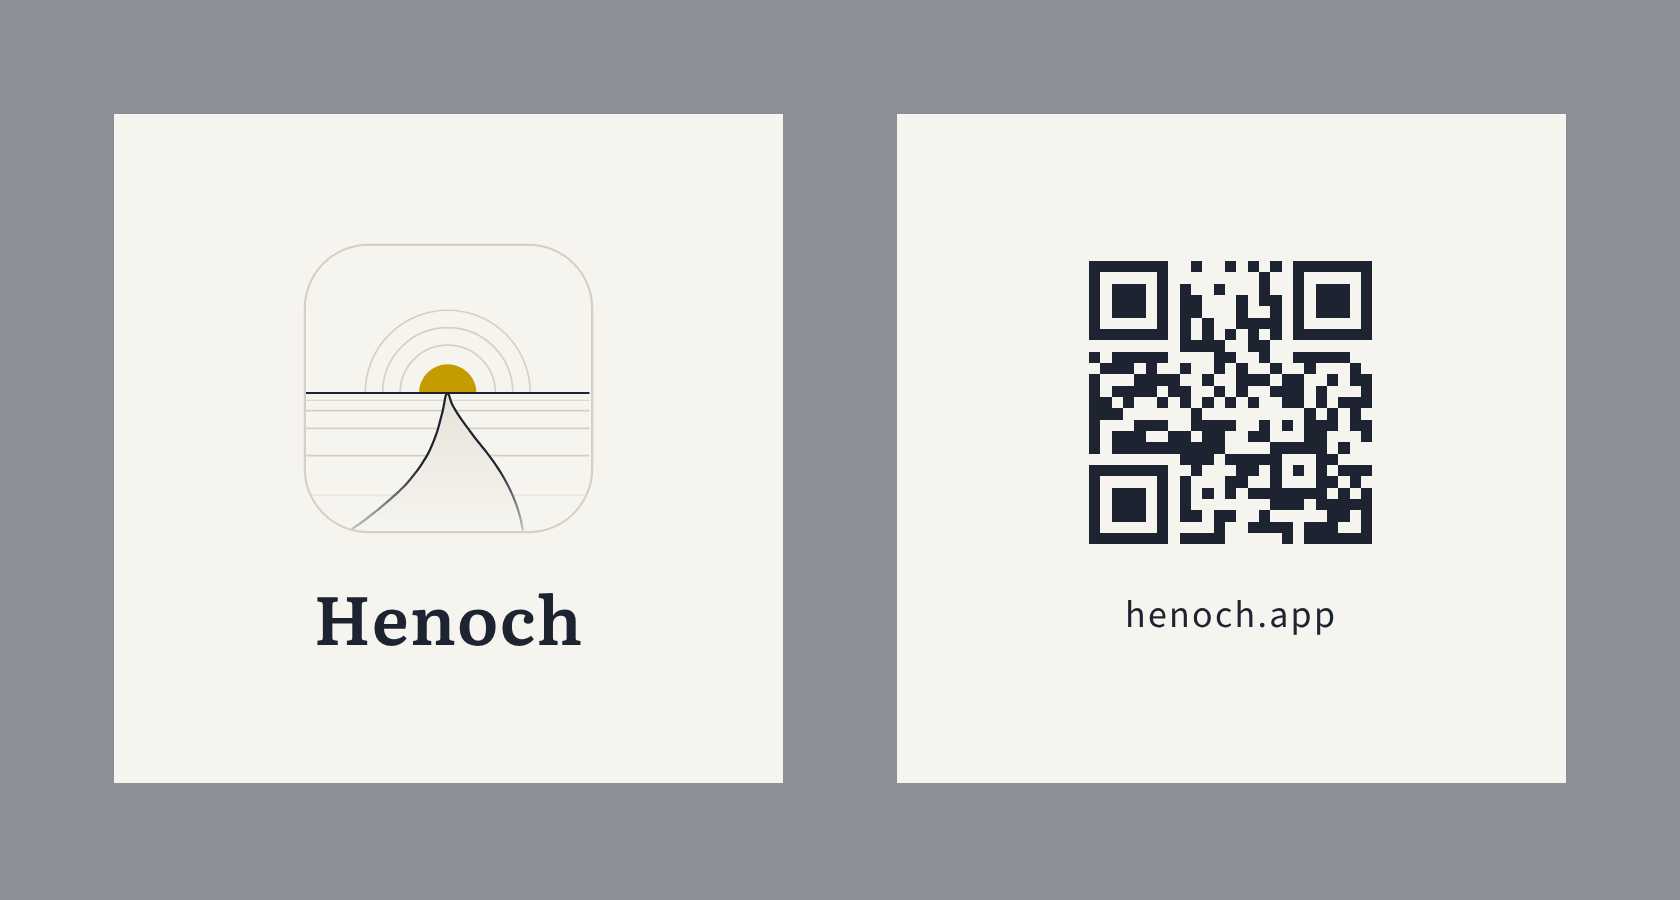
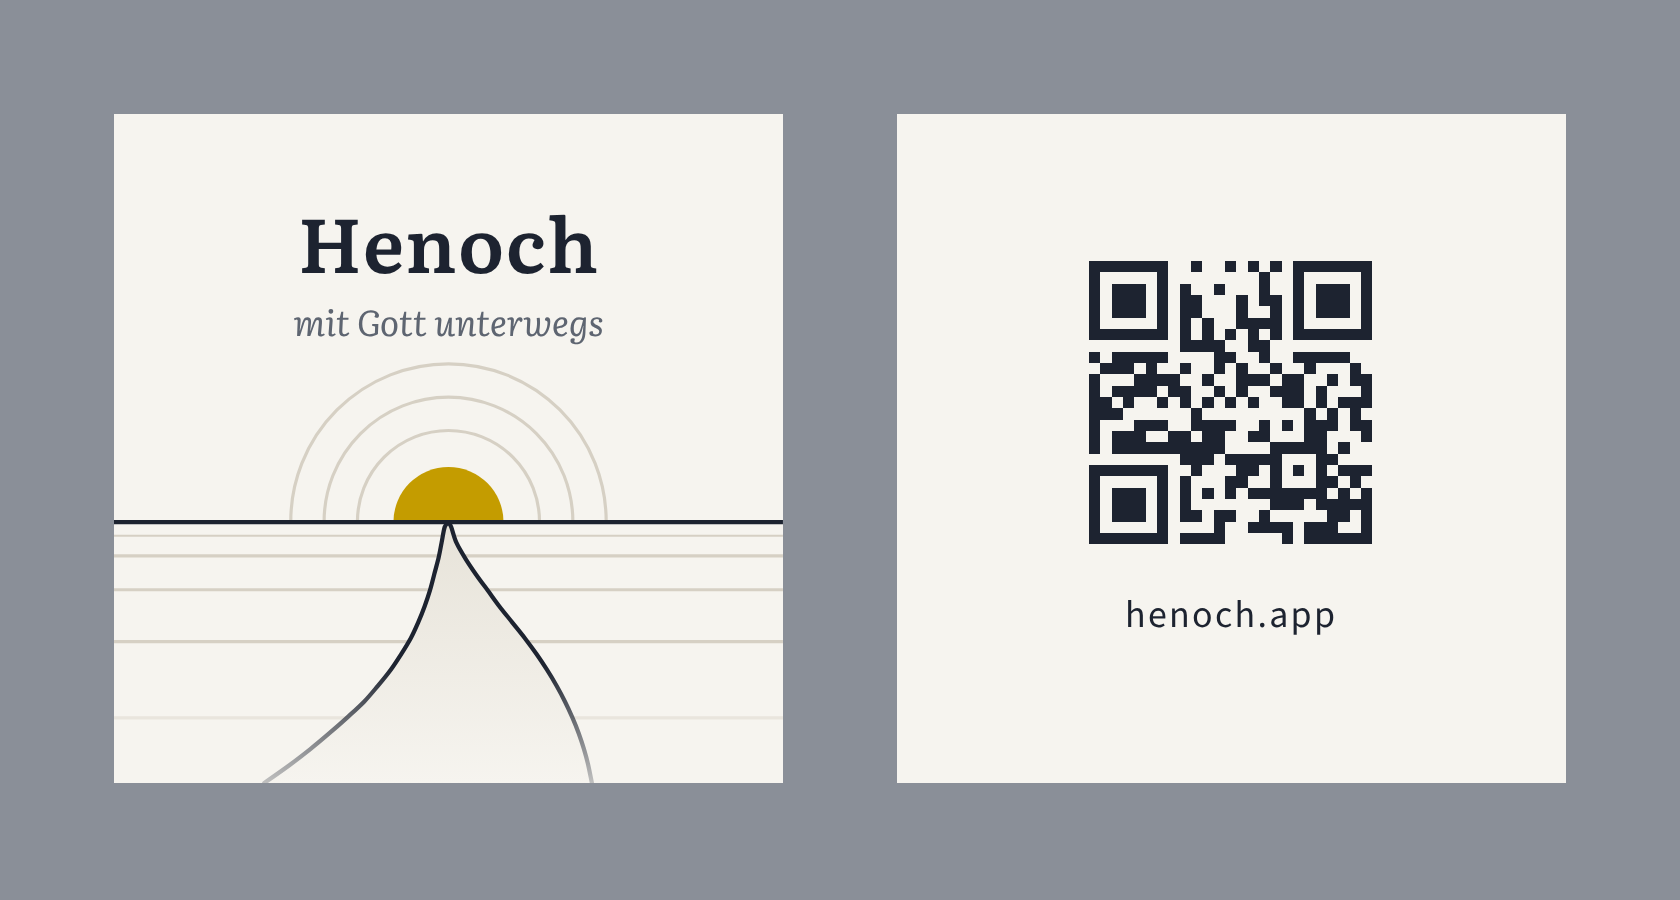
Visitenkarte: Bild randlos, dazu „mit Gott unterwegs“
Claude-Session: https://claude.ai/code/session_01JETNZ2BbFd9PaqHXcpm5eH

diff --git a/docs/visitenkarte/visitenkarte.html b/docs/visitenkarte/visitenkarte.html
@@ -6,6 +6,7 @@
 <title>Henoch Visitenkarte</title>
 <style>
 /* Square business card, 55 × 55 mm trim with 2 mm bleed on every side. Page 1 is the front, page 2 the back. */
+@font-face { font-family: 'Literata'; font-style: italic; font-weight: 400; src: url('../anleitung/fonts/literata-latin-400-italic.woff2') format('woff2'); }
 @font-face { font-family: 'Literata'; font-style: normal; font-weight: 600; src: url('../anleitung/fonts/literata-latin-600-normal.woff2') format('woff2'); }
 @font-face { font-family: 'Source Sans 3'; font-style: normal; font-weight: 400; src: url('../anleitung/fonts/source-sans-3-latin-400-normal.woff2') format('woff2'); }
 
@@ -30,10 +31,11 @@ body { display: flex; flex-wrap: wrap; gap: 10mm; padding: 10mm; justify-content
   position: relative; overflow: hidden;
   -webkit-print-color-adjust: exact; print-color-adjust: exact;
 }
-/* Front: the app icon, the name beneath it. */
-.icon { width: 25mm; height: 25mm; border-radius: 5.5mm; box-shadow: 0 0 0 0.2mm var(--rule); overflow: hidden; }
-.icon svg { display: block; width: 100%; height: 100%; }
-.name { font-family: 'Literata', Georgia, serif; font-weight: 600; font-size: 17pt; letter-spacing: 0.02em; margin-top: 4.5mm; line-height: 1; }
+/* Front: the icon's landscape runs to the edges, widened upward so the name and motto sit in the open sky. */
+.art { position: absolute; inset: 0; width: 100%; height: 100%; display: block; }
+.title { position: absolute; top: calc(var(--bleed) + 6mm); left: 0; right: 0; text-align: center; }
+.name { font-family: 'Literata', Georgia, serif; font-weight: 600; font-size: 19pt; letter-spacing: 0.02em; line-height: 1; }
+.motto { font-family: 'Literata', Georgia, serif; font-style: italic; font-size: 9pt; color: var(--muted); margin-top: 2mm; line-height: 1; }
 /* Back: QR code to the website, the address beneath it. */
 .qr { width: 25mm; height: 25mm; display: block; }
 .url { font-family: 'Source Sans 3', Helvetica, Arial, sans-serif; font-size: 9.5pt; letter-spacing: 0.06em; color: var(--ink); margin-top: 4.5mm; line-height: 1; }
@@ -48,8 +50,7 @@ body { display: flex; flex-wrap: wrap; gap: 10mm; padding: 10mm; justify-content
 <body>
 
 <section class="card" aria-label="Vorderseite">
-  <div class="icon">
-    <svg viewBox="0 0 512 512" aria-hidden="true">
+  <svg class="art" viewBox="-60 -120 632 632" aria-hidden="true">
       <defs>
         <linearGradient id="valley" x1="0" y1="266" x2="0" y2="512" gradientUnits="userSpaceOnUse">
           <stop offset="0" stop-color="#e7e3d9"/><stop offset="1" stop-color="#f6f4ef"/>
@@ -58,16 +59,16 @@ body { display: flex; flex-wrap: wrap; gap: 10mm; padding: 10mm; justify-content
           <stop offset="0" stop-color="#1d2330"/><stop offset="0.55" stop-color="#1d2330"/><stop offset="1" stop-color="#1d2330" stop-opacity="0.25"/>
         </linearGradient>
       </defs>
-      <rect width="512" height="512" fill="#f6f4ef"/>
+      <rect x="-60" y="-120" width="632" height="632" fill="#f6f4ef"/>
       <g fill="none" stroke="#d6d0c4" stroke-width="3">
         <path d="M107,265 A149,149 0 0 1 405,265"/>
         <path d="M138.5,265 A117.5,117.5 0 0 1 373.5,265"/>
         <path d="M170,265 A86,86 0 0 1 342,265"/>
-        <path d="M0,278.5H512" stroke-width="2"/>
-        <path d="M0,297.5H512"/>
-        <path d="M0,329.5H512"/>
-        <path d="M0,378.5H512"/>
-        <path d="M0,450.5H512" stroke="#e9e5dd"/>
+        <path d="M-60,278.5H572" stroke-width="2"/>
+        <path d="M-60,297.5H572"/>
+        <path d="M-60,329.5H572"/>
+        <path d="M-60,378.5H572"/>
+        <path d="M-60,450.5H572" stroke="#e9e5dd"/>
       </g>
       <path d="M204,265.5 A52,52 0 0 1 308,265.5Z" fill="#c49c00"/>
       <path d="M256,266 C255.4,266.7 253.6,266.8 252.5,270 C251.4,273.2 250.5,280 249.5,285 C248.5,290 247.7,295 246.5,300 C245.3,305 243.8,310 242.5,315 C241.2,320 240,325 238.5,330 C237,335 235.3,340 233.5,345 C231.7,350 229.7,355 227.5,360 C225.3,365 223.2,370 220.5,375 C217.8,380 214.7,385 211.5,390 C208.3,395 205.2,400 201.5,405 C197.8,410 193.7,415 189.5,420 C185.3,425 181.3,430 176.5,435 C171.7,440 166,445 160.5,450 C155,455 149.3,460 143.5,465 C137.7,470 131.8,475 125.5,480 C119.2,485 113.2,489.7 106,495 C98.8,500.3 86,509.2 82,512 L391.5,512 C390.9,509.2 389.2,500.3 388,495 C386.8,489.7 385.5,485 384,480 C382.5,475 380.8,470 379,465 C377.2,460 375.2,455 373,450 C370.8,445 368.5,440 366,435 C363.5,430 360.8,425 358,420 C355.2,415 352.2,410 349,405 C345.8,400 342.5,395 339,390 C335.5,385 331.8,380 328,375 C324.2,370 320,365 316,360 C312,355 307.8,350 304,345 C300.2,340 296.7,335 293,330 C289.3,325 285.5,320 282,315 C278.5,310 275.1,305 272,300 C268.9,295 265.8,290 263.5,285 C261.2,280 259.8,273.2 258.5,270 C257.2,266.8 256.4,266.7 256,266Z" fill="url(#valley)"/>
@@ -75,10 +76,12 @@ body { display: flex; flex-wrap: wrap; gap: 10mm; padding: 10mm; justify-content
         <path d="M256,266 C255.4,266.7 253.6,266.8 252.5,270 C251.4,273.2 250.5,280 249.5,285 C248.5,290 247.7,295 246.5,300 C245.3,305 243.8,310 242.5,315 C241.2,320 240,325 238.5,330 C237,335 235.3,340 233.5,345 C231.7,350 229.7,355 227.5,360 C225.3,365 223.2,370 220.5,375 C217.8,380 214.7,385 211.5,390 C208.3,395 205.2,400 201.5,405 C197.8,410 193.7,415 189.5,420 C185.3,425 181.3,430 176.5,435 C171.7,440 166,445 160.5,450 C155,455 149.3,460 143.5,465 C137.7,470 131.8,475 125.5,480 C119.2,485 113.2,489.7 106,495 C98.8,500.3 86,509.2 82,512"/>
         <path d="M256,266 C256.4,266.7 257.2,266.8 258.5,270 C259.8,273.2 261.2,280 263.5,285 C265.8,290 268.9,295 272,300 C275.1,305 278.5,310 282,315 C285.5,320 289.3,325 293,330 C296.7,335 300.2,340 304,345 C307.8,350 312,355 316,360 C320,365 324.2,370 328,375 C331.8,380 335.5,385 339,390 C342.5,395 345.8,400 349,405 C352.2,410 355.2,415 358,420 C360.8,425 363.5,430 366,435 C368.5,440 370.8,445 373,450 C375.2,455 377.2,460 379,465 C380.8,470 382.5,475 384,480 C385.5,485 386.8,489.7 388,495 C389.2,500.3 390.9,509.2 391.5,512"/>
       </g>
-      <path d="M0,265.5H512" stroke="#1d2330" stroke-width="4"/>
-    </svg>
+      <path d="M-60,265.5H572" stroke="#1d2330" stroke-width="4"/>
+  </svg>
+  <div class="title">
+    <div class="name">Henoch</div>
+    <div class="motto">mit Gott unterwegs</div>
   </div>
-  <div class="name">Henoch</div>
 </section>
 
 <section class="card" aria-label="Rückseite">

diff --git a/docs/visitenkarte/LIESMICH.md b/docs/visitenkarte/LIESMICH.md
@@ -2,7 +2,7 @@
 
 Quadratische Visitenkarte, 55 × 55 mm, mit 2 mm Anschnitt an jeder Seite (Seitengröße 59 × 59 mm).
 
-- **Vorderseite:** das App-Symbol und der Name „Henoch“
+- **Vorderseite:** das Bild des App-Symbols randlos über die ganze Fläche, darin „Henoch“ und „mit Gott unterwegs“
 - **Rückseite:** QR-Code zu https://henoch.app/ und darunter die Adresse
 
 Dateien:
